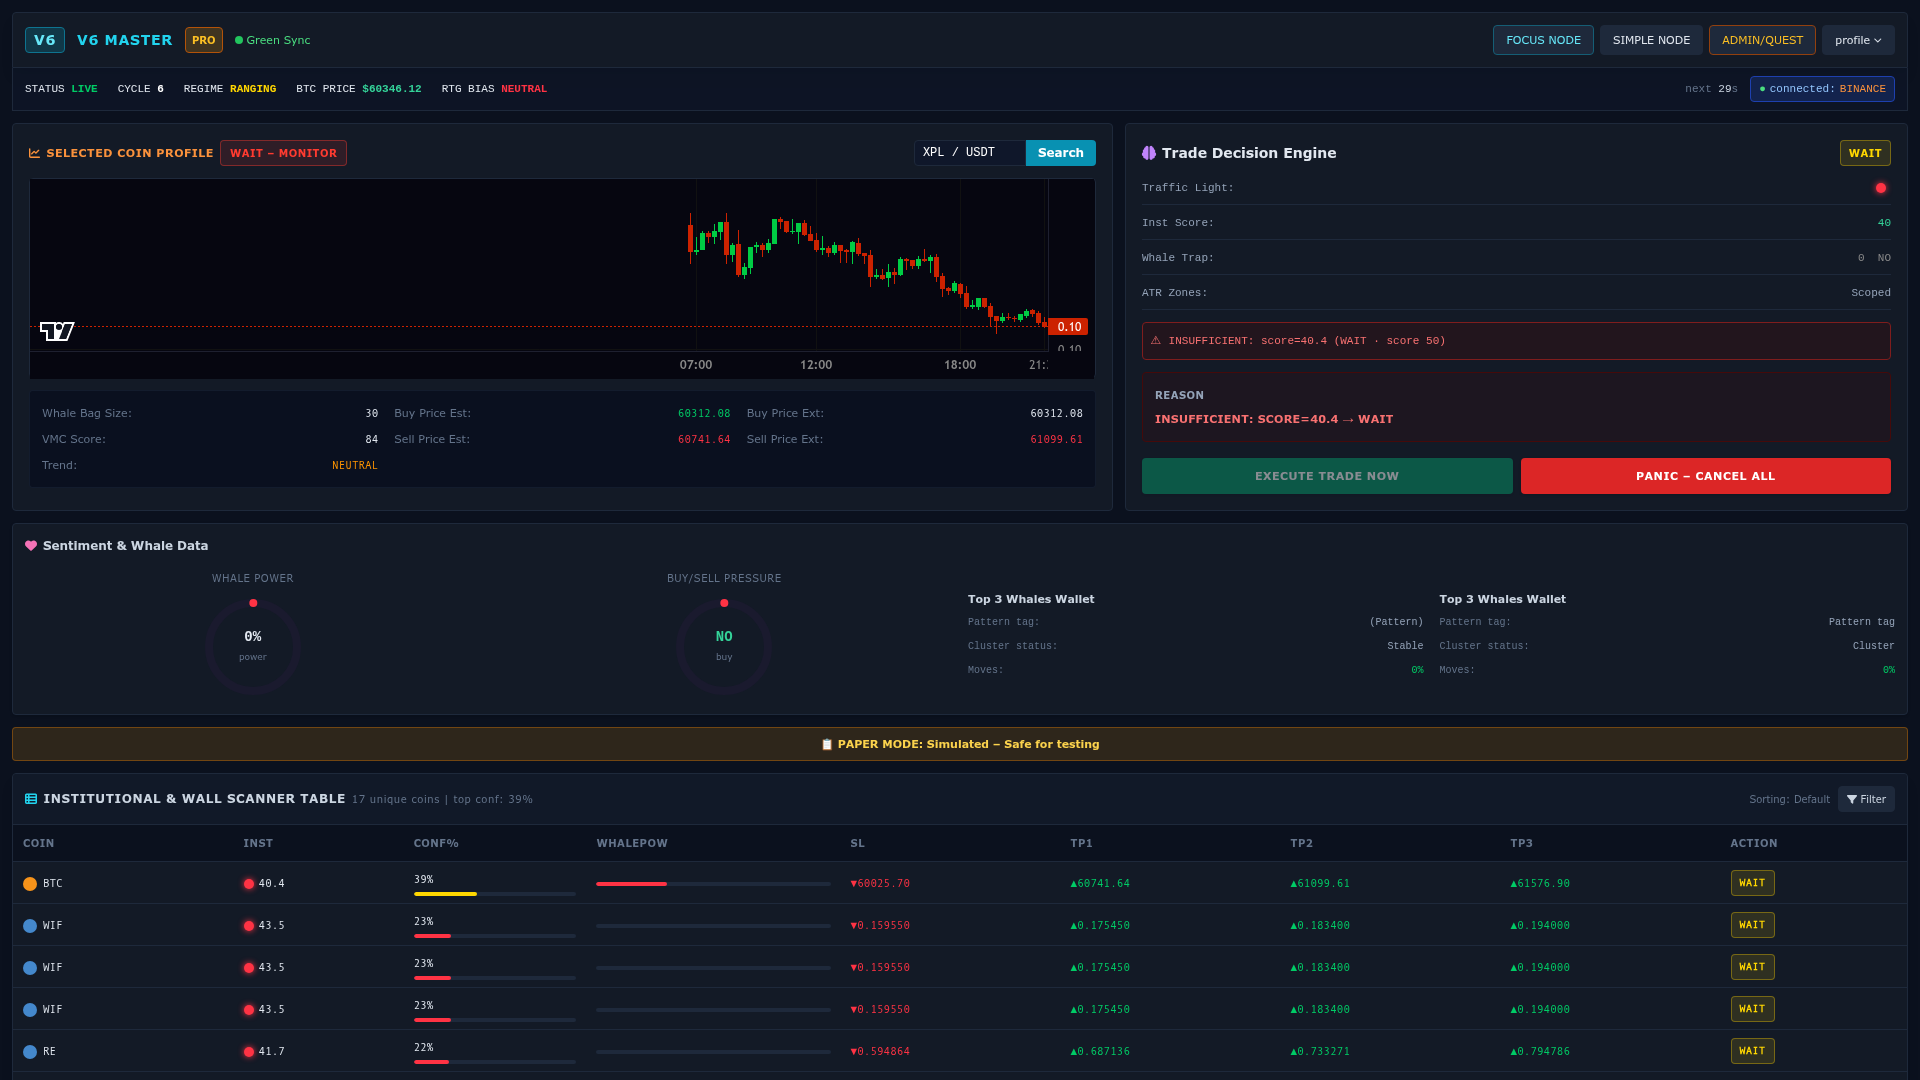
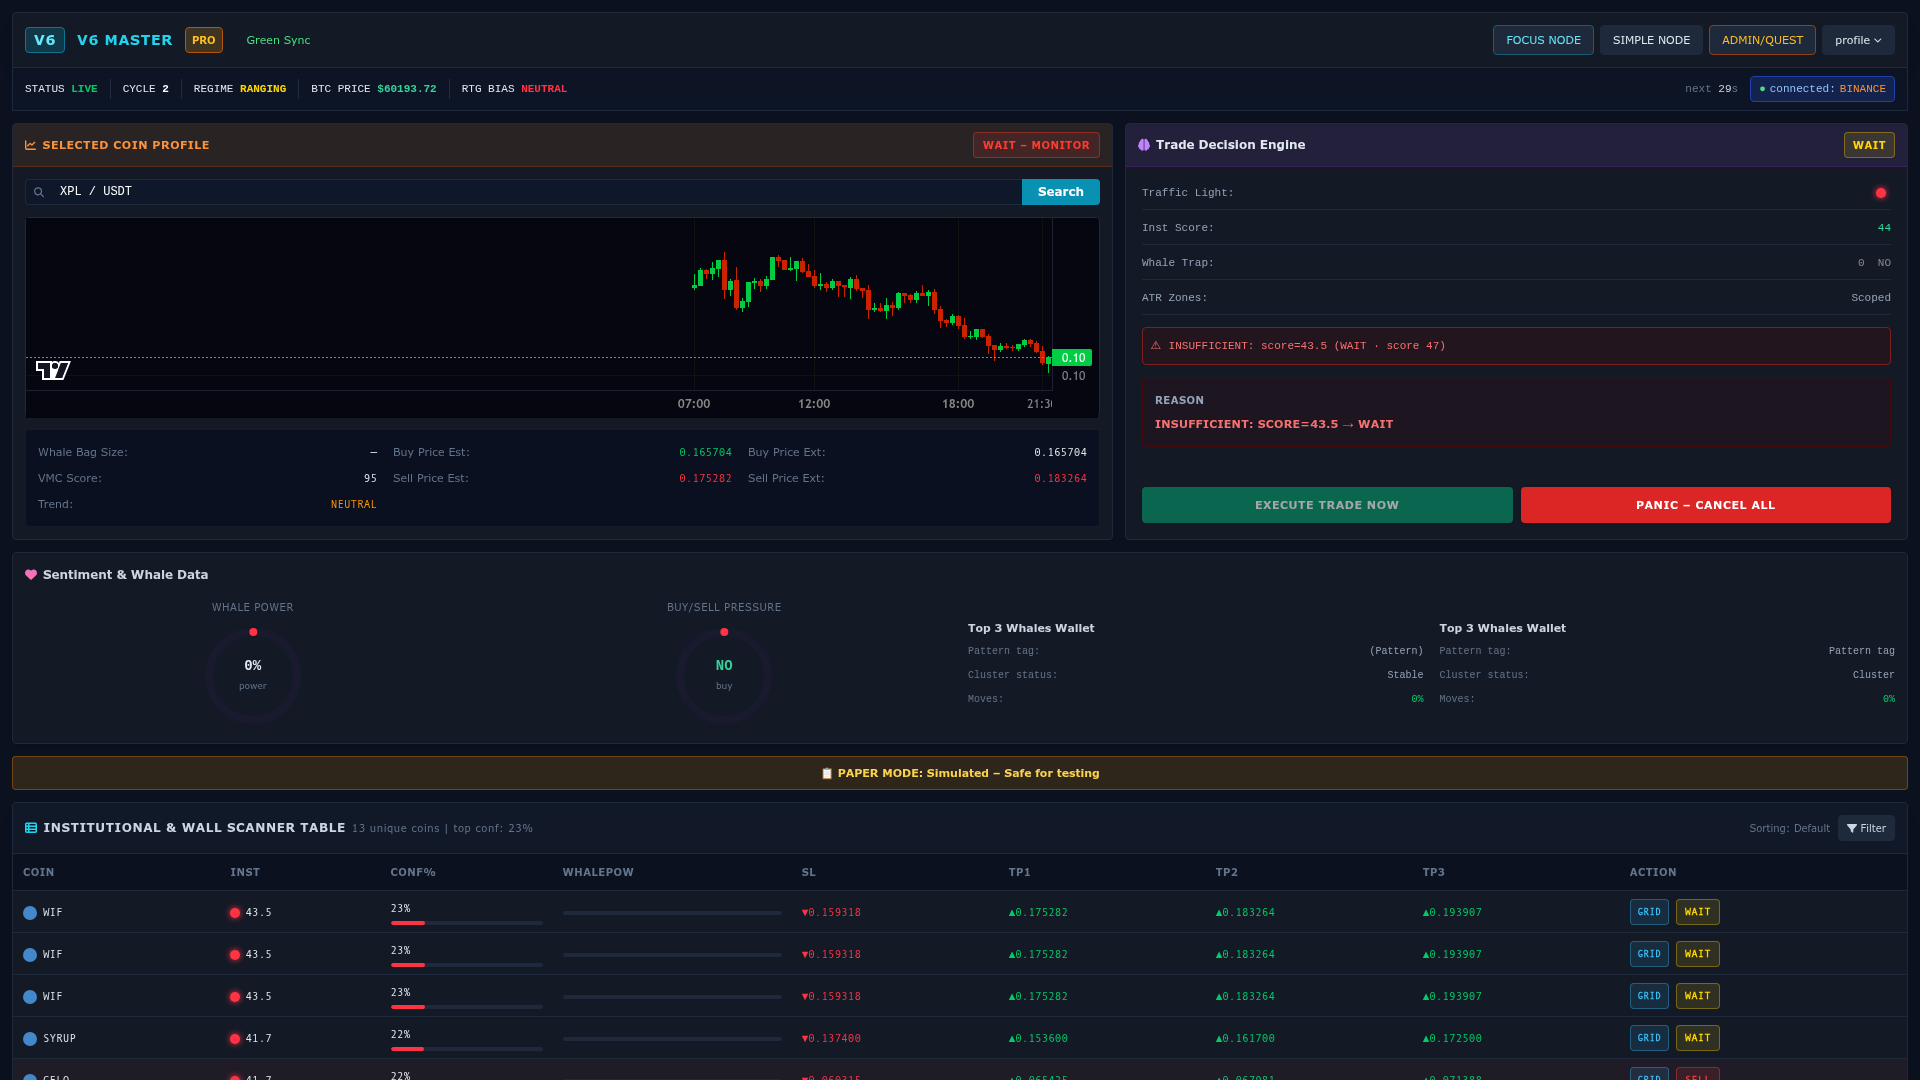
Improve the user interface with layout and styling updates
Update the status bar and panel headers with new styling, add a strategy badge to the scanner table, and ensure the profile badge remains right-aligned.

Replit-Commit-Author: Agent
Replit-Commit-Session-Id: be32f168-d16d-4131-b2b5-eff7703ee3bd
Replit-Commit-Checkpoint-Type: full_checkpoint
Replit-Commit-Event-Id: d9bd15fe-cbbe-4f11-8c69-0a8a5797cb7a
Replit-Commit-Screenshot-Url: https://storage.googleapis.com/screenshot-production-us-central1/96e45e93-5690-48cf-b9a9-a27b3c00e2b2/be32f168-d16d-4131-b2b5-eff7703ee3bd/CYf3iFt
Replit-Helium-Checkpoint-Created: true

diff --git a/V6_Master_Pro_UI/index.html b/V6_Master_Pro_UI/index.html
@@ -41,6 +41,8 @@
   .action-BUY{ background:rgba(0,204,102,.15); color:#00ffcc; border:1px solid rgba(0,204,102,.4); }
   .action-SELL,.action-AVOID{ background:rgba(255,59,48,.12); color:#ff3b30; border:1px solid rgba(255,59,48,.4); }
   .action-WAIT,.action-HOLD{ background:rgba(255,213,0,.12); color:#ffd700; border:1px solid rgba(255,213,0,.35); }
+  .strat-badge{ display:inline-block; padding:2px 7px; border-radius:4px; font-size:9px; font-weight:700;
+    letter-spacing:.5px; background:rgba(56,189,248,.12); color:#38bdf8; border:1px solid rgba(56,189,248,.35); }
 
   /* ---- traffic light dot ---- */
   .traffic-dot{ width:10px; height:10px; border-radius:50%; display:inline-block; margin-right:5px; vertical-align:middle; }
@@ -95,11 +97,11 @@
 </header>
 
 <!-- ============ STATUS BAR ============ -->
-<div class="bg-slate-900/60 border-x border-b border-panelb px-3 py-2 flex flex-wrap items-center gap-x-5 gap-y-1 text-[11px] font-mono">
-  <div>STATUS <span class="sb-value sb-live">LIVE</span></div>
-  <div>CYCLE <span class="sb-value sb-white text-white" id="sb-cycle">—</span></div>
-  <div>REGIME <span class="sb-value sb-volatile" id="sb-regime">—</span></div>
-  <div>BTC PRICE <span class="sb-value text-emerald-400" id="sb-btcprice">—</span></div>
+<div class="bg-slate-900/60 border-x border-b border-panelb px-3 py-2 flex flex-wrap items-center gap-y-1 text-[11px] font-mono">
+  <div class="pr-3 mr-3 border-r border-slate-700/50">STATUS <span class="sb-value sb-live">LIVE</span></div>
+  <div class="pr-3 mr-3 border-r border-slate-700/50">CYCLE <span class="sb-value sb-white text-white" id="sb-cycle">—</span></div>
+  <div class="pr-3 mr-3 border-r border-slate-700/50">REGIME <span class="sb-value sb-volatile" id="sb-regime">—</span></div>
+  <div class="pr-3 mr-3 border-r border-slate-700/50">BTC PRICE <span class="sb-value text-emerald-400" id="sb-btcprice">—</span></div>
   <div>RTG BIAS <span class="sb-value sb-bearish" id="sb-rias">—</span></div>
   <div class="ml-auto flex items-center gap-3">
     <span class="text-slate-500">next <span id="next-count" class="text-slate-300">30</span>s</span>
@@ -114,58 +116,62 @@
 
   <!-- LEFT: COIN PROFILE & CHART -->
   <section class="lg:col-span-7">
-    <div class="bg-panel border border-panelb rounded p-4 h-full">
-      <div class="flex items-center justify-between mb-3 gap-2">
+    <div class="bg-panel border border-panelb rounded h-full overflow-hidden flex flex-col">
+      <div class="flex items-center gap-2 px-3 py-2 bg-orange-500/10 border-b border-orange-700/30">
         <h2 class="text-orange-400 font-semibold uppercase tracking-wider text-[11px] flex items-center gap-1.5">
           <i class="fa-solid fa-chart-line"></i> Selected Coin Profile
-          <span id="profile-badge" class="avoid-badge">AVOID – DUMP PREP</span>
         </h2>
-        <div class="flex">
-          <input id="coin-search" value="XPL / USDT" placeholder="🔍 Enter coin pair"
-            class="bg-slate-900 border border-panelb rounded-l px-2 py-1 w-28 text-xs font-mono text-white focus:outline-none focus:border-cyan-500"/>
-          <button onclick="doSearch()" class="bg-cyan-600 hover:bg-cyan-500 text-white font-bold px-3 py-1 rounded-r text-xs">Search</button>
-        </div>
+        <span id="profile-badge" class="avoid-badge ml-auto">AVOID – DUMP PREP</span>
       </div>
+      <div class="p-3 flex-1">
+        <div class="flex mb-3">
+          <span class="flex items-center px-2 bg-slate-900 border border-r-0 border-panelb rounded-l text-slate-500"><i class="fa-solid fa-magnifying-glass text-[10px]"></i></span>
+          <input id="coin-search" value="XPL / USDT" placeholder="Enter coin pair"
+            class="bg-slate-900 border-y border-panelb px-2 py-1 flex-1 text-xs font-mono text-white focus:outline-none focus:border-cyan-500"/>
+          <button onclick="doSearch()" class="bg-cyan-600 hover:bg-cyan-500 text-white font-bold px-4 py-1 rounded-r text-xs">Search</button>
+        </div>
 
-      <div id="chart-container" class="rounded border border-panelb bg-[#060610]"></div>
+        <div id="chart-container" class="rounded border border-panelb bg-[#060610]"></div>
 
-      <div class="grid grid-cols-2 sm:grid-cols-3 gap-x-4 gap-y-1.5 mt-3 text-[11px] bg-slate-950/50 p-3 rounded border border-panelb/50">
-        <div class="flex justify-between gap-2"><span class="text-slate-500">Whale Bag Size:</span><span class="dg-value" id="whale-bag">—</span></div>
-        <div class="flex justify-between gap-2"><span class="text-slate-500">Buy Price Est:</span><span class="dg-value green" id="buy-price-est">—</span></div>
-        <div class="flex justify-between gap-2"><span class="text-slate-500">Buy Price Ext:</span><span class="dg-value" id="buy-price-ext">—</span></div>
-        <div class="flex justify-between gap-2"><span class="text-slate-500">VMC Score:</span><span class="dg-value" id="vmc-score">—</span></div>
-        <div class="flex justify-between gap-2"><span class="text-slate-500">Sell Price Est:</span><span class="dg-value red" id="sell-price-est">—</span></div>
-        <div class="flex justify-between gap-2"><span class="text-slate-500">Sell Price Ext:</span><span class="dg-value red" id="sell-price-ext">—</span></div>
-        <div class="flex justify-between gap-2"><span class="text-slate-500">Trend:</span><span class="dg-value green" id="coin-trend">ACCUMULATION</span></div>
+        <div class="grid grid-cols-2 sm:grid-cols-3 gap-x-4 gap-y-1.5 mt-3 text-[11px] bg-slate-950/50 p-3 rounded border border-panelb/50">
+          <div class="flex justify-between gap-2"><span class="text-slate-500">Whale Bag Size:</span><span class="dg-value" id="whale-bag">—</span></div>
+          <div class="flex justify-between gap-2"><span class="text-slate-500">Buy Price Est:</span><span class="dg-value green" id="buy-price-est">—</span></div>
+          <div class="flex justify-between gap-2"><span class="text-slate-500">Buy Price Ext:</span><span class="dg-value" id="buy-price-ext">—</span></div>
+          <div class="flex justify-between gap-2"><span class="text-slate-500">VMC Score:</span><span class="dg-value" id="vmc-score">—</span></div>
+          <div class="flex justify-between gap-2"><span class="text-slate-500">Sell Price Est:</span><span class="dg-value red" id="sell-price-est">—</span></div>
+          <div class="flex justify-between gap-2"><span class="text-slate-500">Sell Price Ext:</span><span class="dg-value red" id="sell-price-ext">—</span></div>
+          <div class="flex justify-between gap-2"><span class="text-slate-500">Trend:</span><span class="dg-value green" id="coin-trend">ACCUMULATION</span></div>
+        </div>
       </div>
     </div>
   </section>
 
   <!-- RIGHT: TRADE DECISION ENGINE -->
   <section class="lg:col-span-5">
-    <div class="bg-panel border border-panelb rounded p-4 h-full flex flex-col">
-      <div class="flex justify-between items-center mb-3">
-        <h2 class="text-slate-200 font-semibold flex items-center gap-1.5"><i class="fa-solid fa-brain text-purple-400"></i> Trade Decision Engine</h2>
+    <div class="bg-panel border border-panelb rounded h-full overflow-hidden flex flex-col">
+      <div class="flex justify-between items-center px-3 py-2 bg-purple-500/10 border-b border-purple-800/30">
+        <h2 class="text-slate-200 font-semibold flex items-center gap-1.5 text-[12px]"><i class="fa-solid fa-brain text-purple-400"></i> Trade Decision Engine</h2>
         <span class="action-badge action-AVOID" id="action-badge">AVOID</span>
       </div>
+      <div class="p-4 flex flex-col flex-1">
+        <ul class="space-y-2 font-mono text-[11px] text-slate-400">
+          <li class="flex justify-between border-b border-panelb pb-1.5"><span>Traffic Light:</span><span><span class="traffic-dot traffic-red" id="traffic-dot"></span></span></li>
+          <li class="flex justify-between border-b border-panelb pb-1.5"><span>Inst Score:</span><span class="text-emerald-400" id="inst-score">—</span></li>
+          <li class="flex justify-between border-b border-panelb pb-1.5"><span>Whale Trap:</span><span id="whale-trap">0&nbsp;&nbsp;NO</span></li>
+          <li class="flex justify-between border-b border-panelb pb-1.5"><span>ATR Zones:</span><span id="atr-zones">Scoped</span></li>
+        </ul>
 
-      <ul class="space-y-2 font-mono text-[11px] text-slate-400">
-        <li class="flex justify-between border-b border-panelb pb-1.5"><span>Traffic Light:</span><span><span class="traffic-dot traffic-red" id="traffic-dot"></span></span></li>
-        <li class="flex justify-between border-b border-panelb pb-1.5"><span>Inst Score:</span><span class="text-emerald-400" id="inst-score">—</span></li>
-        <li class="flex justify-between border-b border-panelb pb-1.5"><span>Whale Trap:</span><span id="whale-trap">0&nbsp;&nbsp;NO</span></li>
-        <li class="flex justify-between border-b border-panelb pb-1.5"><span>ATR Zones:</span><span id="atr-zones">Scoped</span></li>
-      </ul>
+        <div class="warning-box mt-3 p-2 rounded bg-red-950/30 border border-red-900 text-red-400 text-[11px] font-mono" id="warning-box" style="display:none"></div>
 
-      <div class="warning-box mt-3 p-2 rounded bg-red-950/30 border border-red-900 text-red-400 text-[11px] font-mono" id="warning-box" style="display:none"></div>
+        <div class="mt-3 p-3 bg-red-950/20 border border-red-950 rounded">
+          <span class="text-slate-400 text-[10px] block uppercase font-semibold tracking-wider mb-1">Reason</span>
+          <p class="text-red-400 text-[11px] font-semibold uppercase tracking-wide" id="reason-text">DUMP_PREPARATION (ISY) → AVOID</p>
+        </div>
 
-      <div class="mt-3 p-3 bg-red-950/20 border border-red-950 rounded">
-        <span class="text-slate-400 text-[10px] block uppercase font-semibold tracking-wider mb-1">Reason</span>
-        <p class="text-red-400 text-[11px] font-semibold uppercase tracking-wide" id="reason-text">DUMP_PREPARATION (ISY) → AVOID</p>
-      </div>
-
-      <div class="grid grid-cols-1 sm:grid-cols-2 gap-2 mt-auto pt-4">
-        <button class="bg-emerald-600 hover:bg-emerald-500 text-white font-bold py-2 px-3 rounded text-center shadow tracking-wider uppercase text-[11px] animate-pulse">Execute Trade Now</button>
-        <button class="bg-red-600 hover:bg-red-500 text-white font-bold py-2 px-3 rounded text-center shadow tracking-wider uppercase text-[11px]">Panic – Cancel All</button>
+        <div class="grid grid-cols-1 sm:grid-cols-2 gap-2 mt-auto pt-4">
+          <button class="bg-emerald-600 hover:bg-emerald-500 text-white font-bold py-2 px-3 rounded text-center shadow tracking-wider uppercase text-[11px] animate-pulse">Execute Trade Now</button>
+          <button class="bg-red-600 hover:bg-red-500 text-white font-bold py-2 px-3 rounded text-center shadow tracking-wider uppercase text-[11px]">Panic – Cancel All</button>
+        </div>
       </div>
     </div>
   </section>
@@ -364,6 +370,6 @@
   <span>Version: v0.0.20</span>
 </footer>
 
-<script src="script.js?v=5"></script>
+<script src="script.js?v=6"></script>
 </body>
 </html>

diff --git a/V6_Master_Pro_UI/script.js b/V6_Master_Pro_UI/script.js
@@ -131,13 +131,13 @@ function updateCoinProfile(d) {
   if (badge) {
     if (sig === 'BUY') {
       badge.textContent = 'BUY – ACCUMULATION';
-      badge.className = 'buy-badge';
+      badge.className = 'buy-badge ml-auto';
     } else if (sig === 'WAIT') {
       badge.textContent = 'WAIT – MONITOR';
-      badge.className = 'avoid-badge';
+      badge.className = 'avoid-badge ml-auto';
     } else {
       badge.textContent = 'AVOID – DUMP PREP';
-      badge.className = 'avoid-badge';
+      badge.className = 'avoid-badge ml-auto';
     }
   }
 
@@ -264,6 +264,7 @@ function updateScannerTable(d) {
     const barColor = conf > 60 ? '#00cc66' : conf > 30 ? '#ffd700' : '#ff3344';
     const wpColor  = wp > 60 ? '#00cc66' : wp > 30 ? '#ffd700' : '#ff3344';
     const act = (v6.label || 'WAIT').toUpperCase();
+    const strat = (c.trading_strategy || 'SPOT').toUpperCase().includes('GRID') ? 'GRID' : 'SPOT';
     const sym = (c.symbol || '').replace('USDT','');
     const rowClass = wp > 70 ? 'hot' : (act === 'AVOID' || act === 'SELL') ? 'avoid-row' : '';
 
@@ -276,7 +277,7 @@ function updateScannerTable(d) {
       <td style="color:var(--green)">▲${fmt6(tp.tp1||0)}</td>
       <td style="color:var(--green)">▲${fmt6(tp.tp2||0)}</td>
       <td style="color:var(--green)">${tp.tp3?'▲'+fmt6(tp.tp3):'—'}</td>
-      <td><span class="action-badge action-${act}">${act}</span></td>
+      <td><span class="strat-badge">${strat}</span> <span class="action-badge action-${act}">${act}</span></td>
     </tr>`;
   }).join('');
 }

diff --git a/.agents/memory/v6-modular-ui.md b/.agents/memory/v6-modular-ui.md
@@ -27,7 +27,12 @@ columns (Coin, Inst, Conf%, WhalePow, SL, TP1, TP2, TP3, Action) — thead,
 empty-state colspan, and `updateScannerTable` row template must all stay at 9.
 `fetchChart` normalizes the search input with `replace(/[^A-Z0-9]/g,'')` (strips
 ALL slashes/spaces) before appending USDT — a single-`.replace` left a space and
-blanked the chart.
+blanked the chart. Scanner Action cell renders TWO badges: a `.strat-badge`
+(SPOT/GRID from `c.trading_strategy`) plus the existing action badge.
+**Gotcha:** any handler that resets `element.className` (e.g. `updateCoinProfile`
+on `#profile-badge`) WIPES Tailwind layout utilities baked into the HTML
+(`ml-auto`, etc.) on the first data refresh. Re-append those utilities in the JS
+assignment, or use `classList` to toggle only the variant class.
 
 ## How it is served — `/v6`, NOT `/`
 Flask (`main.py`) serves it NON-destructively at `/v6` via `send_from_directory`